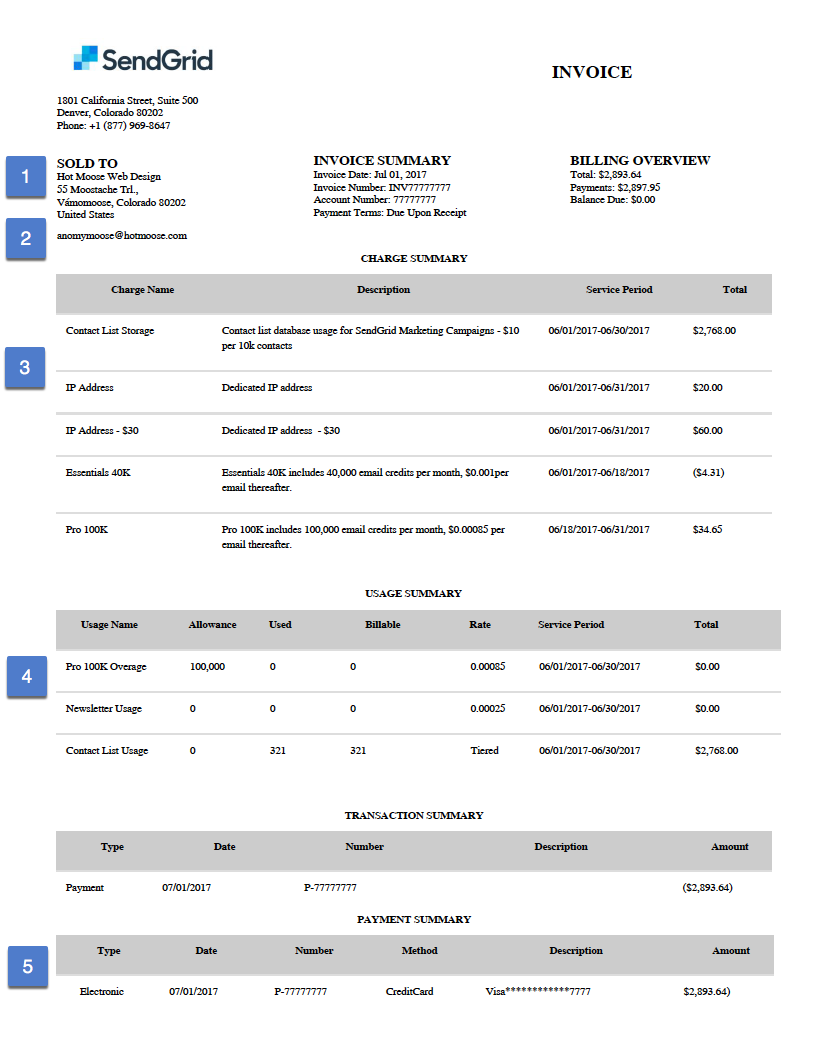
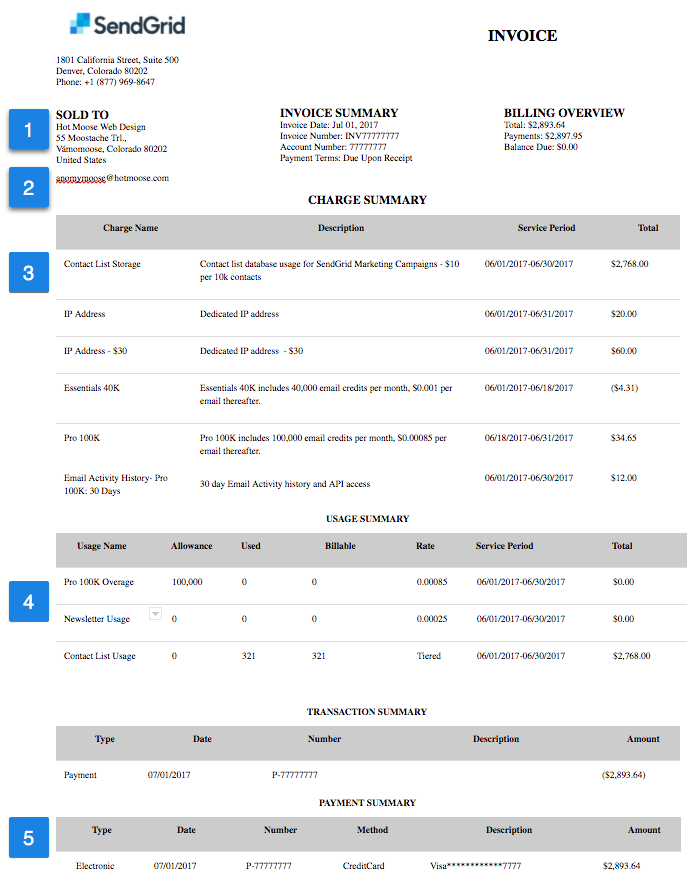
Updated reading your invoice page to reflect EASE changes

diff --git a/source/User_Guide/Settings/reading_your_invoice.md b/source/User_Guide/Settings/reading_your_invoice.md
@@ -52,6 +52,8 @@ For more information on SendGrid Plans, visit our [pricing page](https://sendgri
 
 Refer to "Contact List Usage" in the Usage Summary section below for more information on how this charge is calculated. 
 
+**Email Activity History** - 
+
 {% anchor h2 %}
 4. Usage Summary
 {% endanchor %}

diff --git a/source/User_Guide/email_activity_beta.md b/source/User_Guide/email_activity_beta.md
@@ -3,7 +3,7 @@ layout: page
 weight: 
 title: Email Activity Feed - Beta
 navigation:
-  show: false
+  show: true
 seo:
   title: Email Activity Feed Beta
   override: true
